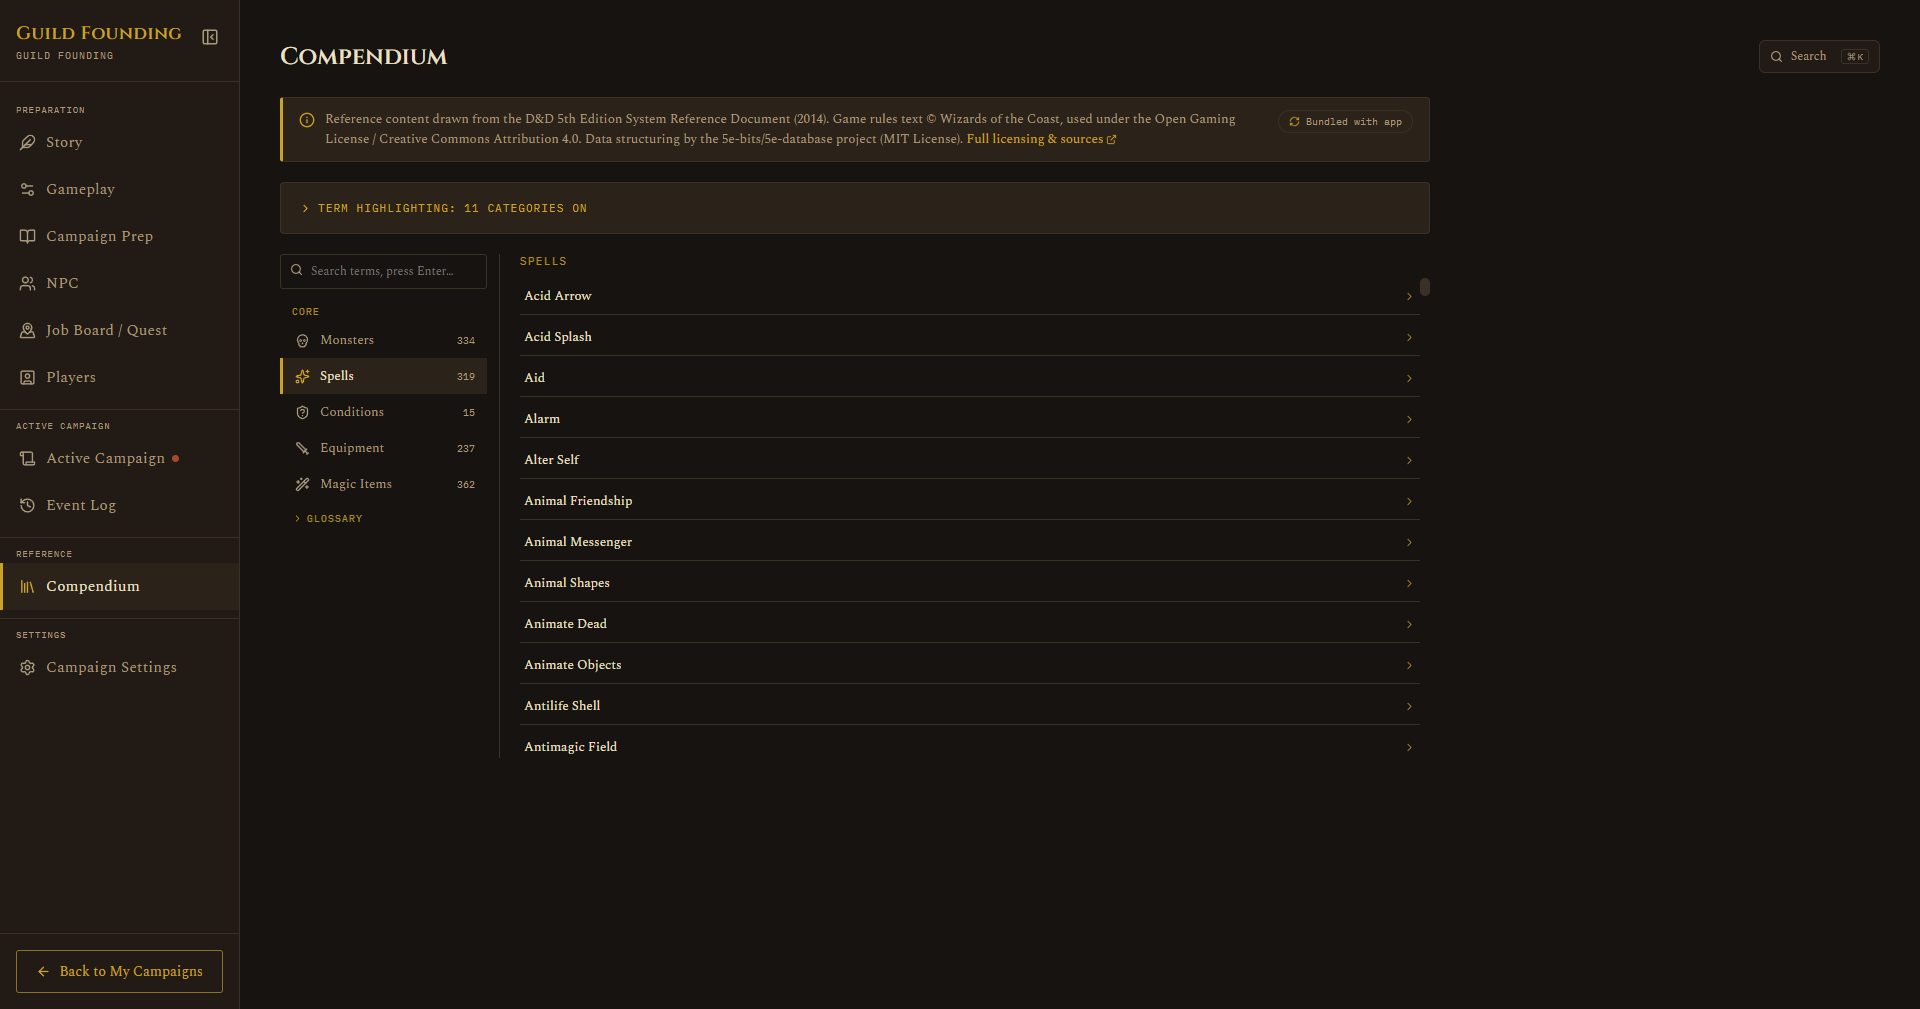
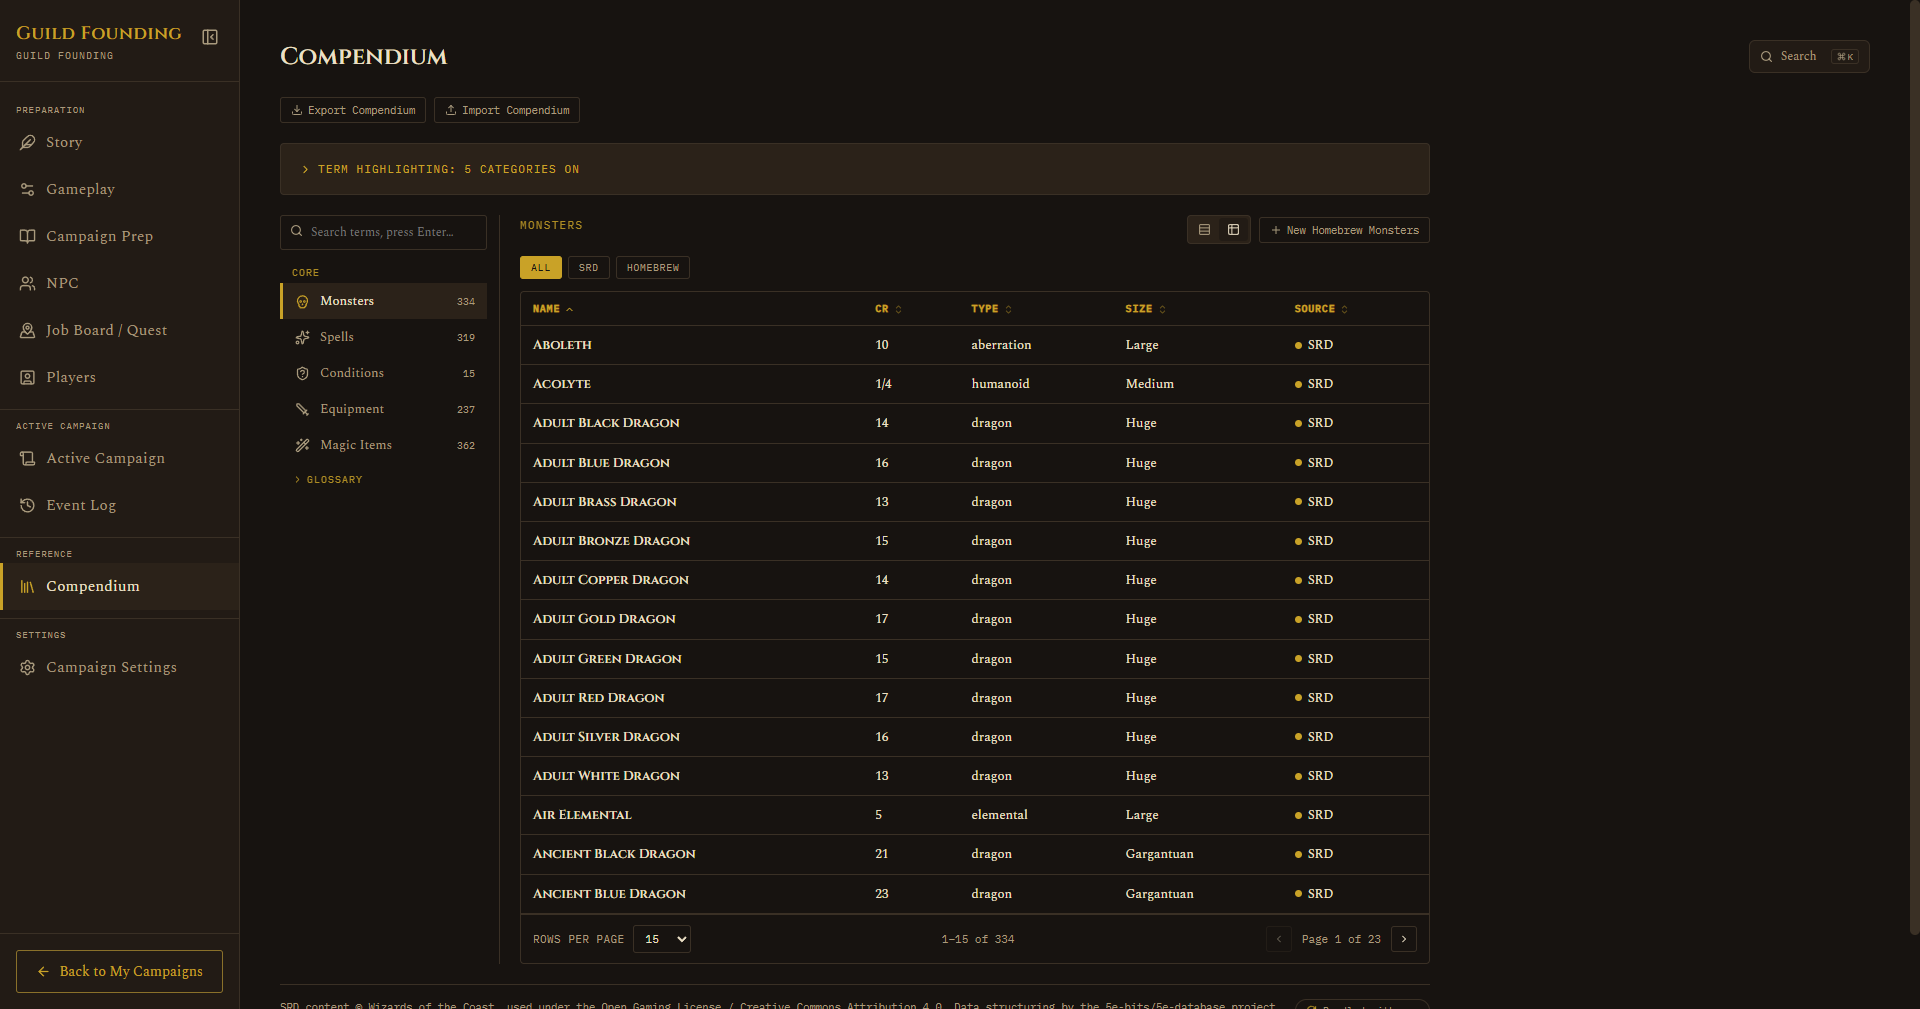
New Compendium table screenshot, homebrew monster form, v0.7.1 download link
Same update as the private repo's source guide: replaces the stale
Compendium screenshot with the new Monsters table view (pagination
visible), adds a screenshot of the New Homebrew Monster form, and points
the download link at the new v0.7.1 build.

diff --git a/index.html b/index.html
@@ -493,8 +493,8 @@
       <p>A built-in D&amp;D 5e SRD reference, shared across all your campaigns rather than being campaign-specific. Browse by category (monsters, spells, conditions, equipment, magic items, plus rules and glossary sections), or search across everything at once. On top of the official reference, you can add your own homebrew content that lives alongside it.</p>
       <p>Monsters, Spells, Equipment, and Magic Items open in a sortable table by default, with a rows-per-page control (10/15/30/100, defaults to 15) at the bottom once a category has more entries than fit on one page.</p>
       <figure>
-        <img src="screenshots/17-compendium.png" alt="Compendium, browsing the Spells category" />
-        <figcaption>Browsing the Spells category.</figcaption>
+        <img src="screenshots/17-compendium.png" alt="Compendium, Monsters table view with pagination" />
+        <figcaption>Monsters in table view, with sorting, source filters, and pagination.</figcaption>
       </figure>
 
       <h3 id="compendium-homebrew">Official content vs. homebrew</h3>
@@ -514,6 +514,10 @@
         <li>Fill in whatever fields apply, name is the only one required.</li>
         <li>Save. It appears in the list right away, tagged "HB".</li>
       </ol>
+      <figure>
+        <img src="screenshots/19-homebrew-monster-form.png" alt="New Homebrew Monster form, name, size, alignment, type, portrait" />
+        <figcaption>The New Homebrew Monster form.</figcaption>
+      </figure>
       <p>Click any homebrew entry to view it, then use the <strong>Edit</strong> or <strong>Delete</strong> buttons on its detail page. Official entries never show those buttons, that's how you can tell at a glance whether something is yours to change.</p>
 
       <h3 id="compendium-portraits">Portraits</h3>
@@ -571,7 +575,7 @@
     <section id="download">
       <h2>11. Download the demo build</h2>
       <p>Want to try the app itself instead of just reading about it? Grab the demo installer here:</p>
-      <p><a href="https://drive.google.com/file/d/1wNhTH-49QbDy8cBOkK0VE18P-Qra275Z/view">Google Drive, demo build</a></p>
+      <p><a href="https://drive.google.com/file/d/1_vXgEq7rnU8yBg5lVI-M3Kvwe_IdHy3X/view?usp=sharing">Google Drive, demo build v0.7.1</a></p>
     </section>
 
     <footer>Campaign Dashboard User Guide</footer>
